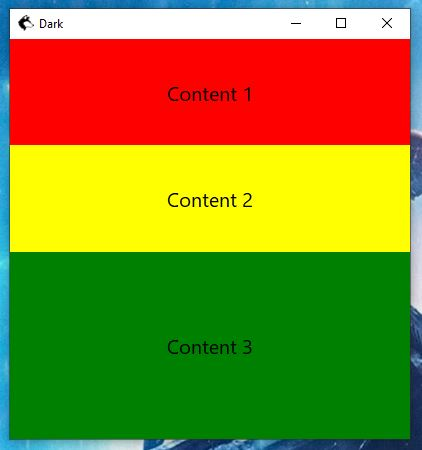
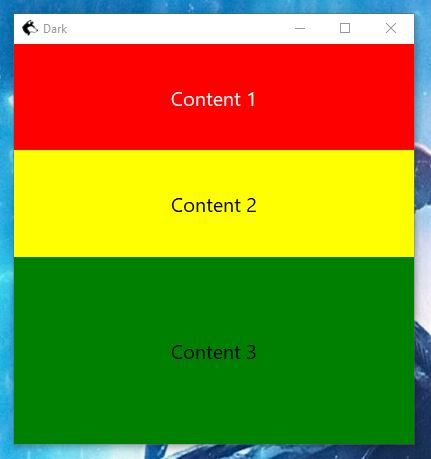
readme

diff --git a/packages/platform-desktop/README.md b/packages/platform-desktop/README.md
@@ -170,26 +170,25 @@ FlexLayout is a kind of layout system based on the flexbox behavior of the web, 
 ```tsx
 const style = useStyle(styled => ({
   root: styled`
+    QLabel {
+      font-size: 20px;
+      qproperty-alignment: 'AlignCenter';
+    }
     #box {
       flex-direction: 'column';
     }
     #text-1 {
       flex: 1;
-      font-size: 20px;
       background-color: red;
-      qproperty-alignment: 'AlignCenter';
+      color: white;
     }
     #text-2 {
       flex: 1;
-      font-size: 20px;
       background-color: yellow;
-      qproperty-alignment: 'AlignCenter';
     }
     #text-3 {
       flex: 2;
-      font-size: 20px;
       background-color: green;
-      qproperty-alignment: 'AlignCenter';
     }
   `,
 }));
